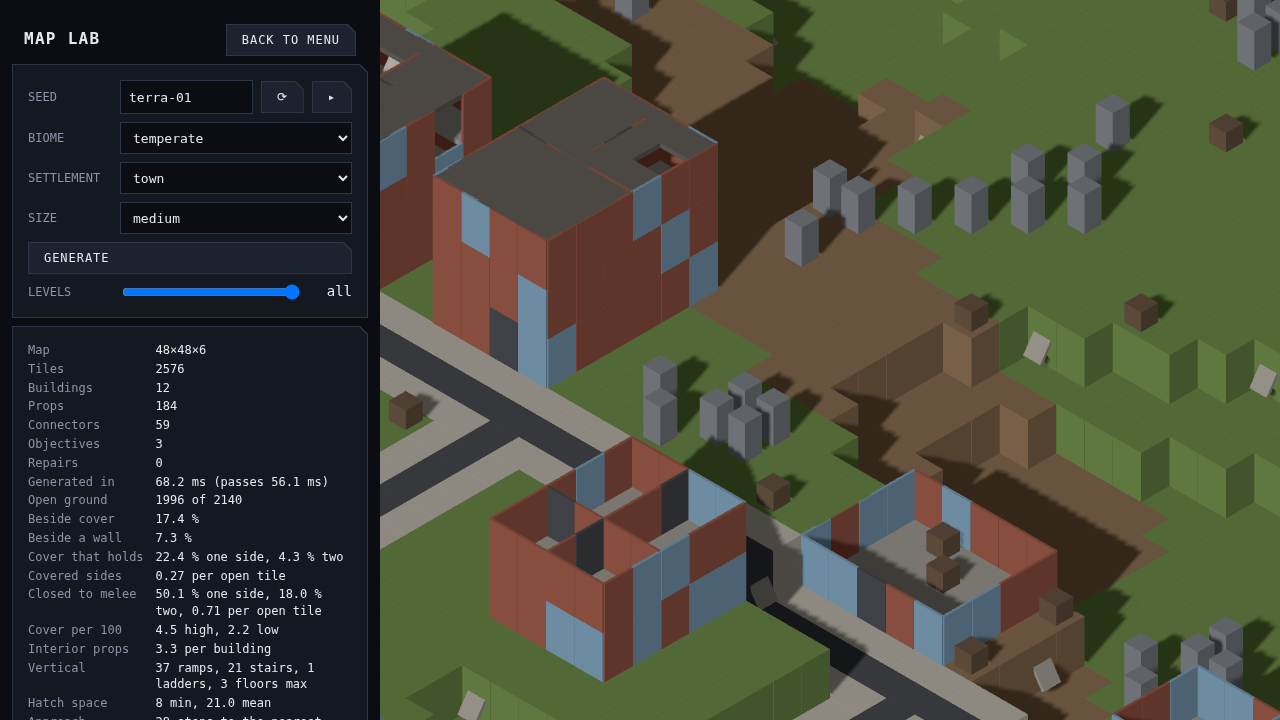
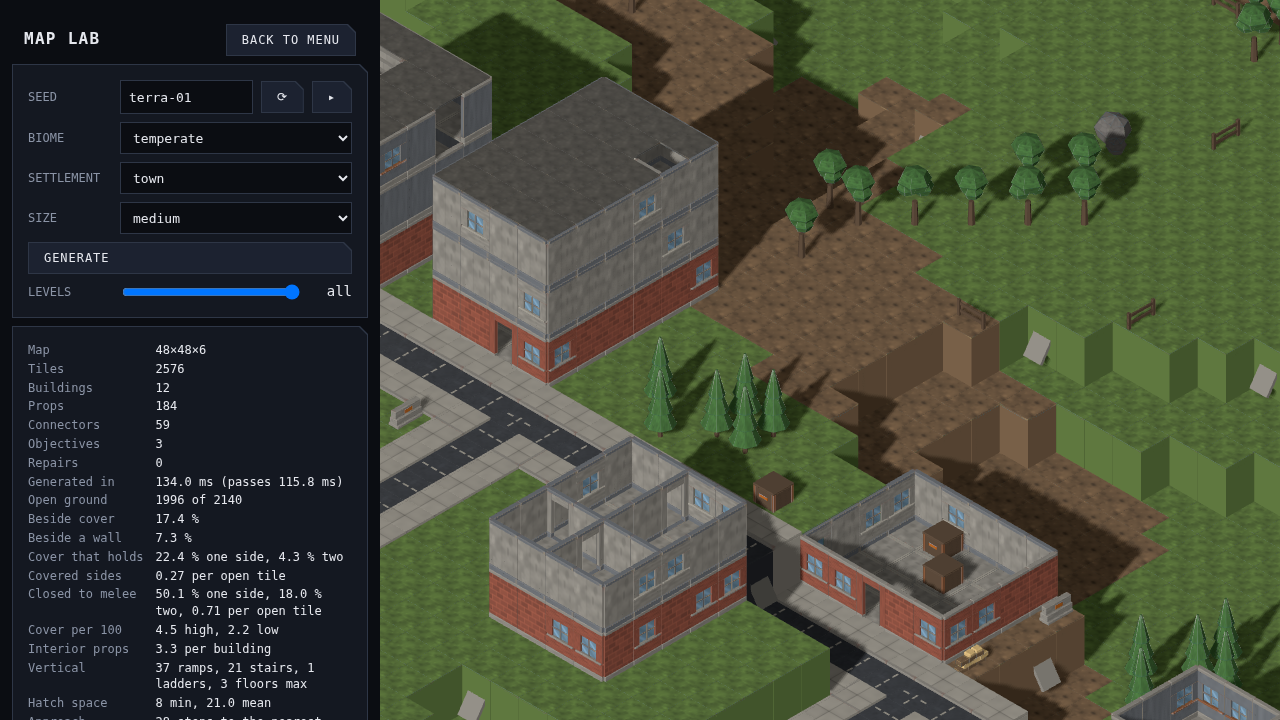
fix(ui): Map Lab opens the art path, and keeps it (#786)
Review change: the menu link carries `models=1`, so Map Lab opens the
game's art rather than the mapgen specialist's placeholder boxes. The
Executive Director asked to assess map generation quality and every
frame he has judged was the art path; opening boxes would invite a bug
report about the art instead. The bare URL keeps its boxes.

The harness needed one line for that to hold, which is a change to it
rather than to the wiring, so worth being explicit about. `writeUrl`
rebuilt the query from the control state, which has no knob for
`models`, so the flag survived exactly until the first generate:

  open ?models=1   art loads, URL rewritten without it
  reroll           still no models
  reload           modelsReady null — placeholder boxes

Measured, not reasoned. `writeUrl` now carries the flag across, so it
survives a reroll, a reload and a shared link. Without it the requested
fix is one refresh deep, which is the outcome it was requested to
prevent.

`docs/design/map-lab-harness.png` recaptured from the production build
with the models in.

Claude-Session: https://claude.ai/code/session_01RKUUcYicdxDofMVERBEUEo

diff --git a/src/app/service/app-bootstrap.ts b/src/app/service/app-bootstrap.ts
@@ -135,8 +135,17 @@ export async function bootstrapApp(doc: Document): Promise<void> {
               // page in the bundle (#786). Relative to the document so
               // it resolves under the Pages sub-path as well as at the
               // root — `TUT_BASE_PATH` makes those differ.
+              //
+              // `models=1` because Map Lab exists to judge map
+              // *generation*, and the harness's default is the mapgen
+              // specialist's placeholder-box view — grey boxes for
+              // props, flat slabs for buildings. Opening that would
+              // invite a bug report about the art instead (#765 exists
+              // because boxes, fog and models took a day to tell apart).
+              // The bare URL keeps its boxes for whoever wants them.
               window.location.assign(
-                new URL("mapgen-preview.html", window.location.href).href,
+                new URL("mapgen-preview.html?models=1", window.location.href)
+                  .href,
               );
             },
           }),

diff --git a/src/mapgen-preview.ts b/src/mapgen-preview.ts
@@ -63,7 +63,16 @@ function stateFromUrl(): PreviewControlsState {
   };
 }
 
-/** Mirrors the controls into the URL so a map can be shared by link. */
+/**
+ * Mirrors the controls into the URL so a map can be shared by link.
+ *
+ * `models` is carried across rather than rebuilt from the controls,
+ * which have no knob for it. Without that the flag survives exactly
+ * until the first generate: the art loads, the URL is rewritten without
+ * it, and the next reload or shared link comes back as placeholder
+ * boxes (#786). Map Lab opens with it on, so dropping it here would
+ * hand the Executive Director boxes one refresh into his first session.
+ */
 function writeUrl(state: PreviewControlsState): void {
   const query = new URLSearchParams({
     seed: state.seed,
@@ -72,6 +81,9 @@ function writeUrl(state: PreviewControlsState): void {
     size: state.size,
     archetype: state.archetype,
   });
+  if (new URLSearchParams(window.location.search).get("models") === "1") {
+    query.set("models", "1");
+  }
   window.history.replaceState(
     null,
     "",
